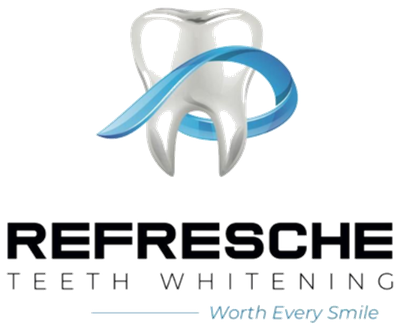
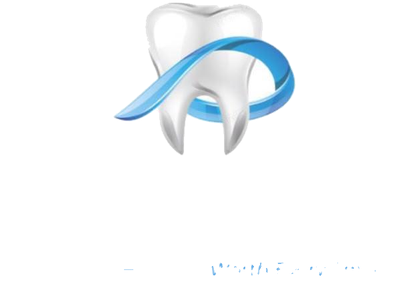
Shaye Best Classic 2027 landing page: site files only (mirrors main repo f5a46d5)

diff --git a/js/data.js b/js/data.js
@@ -121,7 +121,7 @@ export const SPONSORS = [
   { slug: 'browns',        name: 'Browns The Diamond Store',  tier: 'partner', confirmed: false },
   { slug: 'my-gym',        name: 'My Gym',                    tier: 'partner', confirmed: false },
   { slug: 'dermaporium',   name: 'Dermaporium',               tier: 'partner', confirmed: true, url: 'https://dermaporium.co.za' },
-  { slug: 'refresche',     name: 'Refresche Teeth Whitening', tier: 'partner', confirmed: true },
+  { slug: 'refresche',     name: 'Refresche Teeth Whitening', tier: 'partner', confirmed: true, v: 2 },  // v: new art under a year-long cache
   { slug: 'engen-rietvlei',name: 'Engen Rietvlei',            tier: 'partner', confirmed: true },
   { slug: 'planet-nails',  name: 'Planet Nails Distribution', tier: 'partner', confirmed: true, url: 'https://www.planetnails.co.za' },
   { slug: 'sorbet-hairbar',name: 'Sorbet hairbar',            tier: 'partner', confirmed: false },
@@ -174,7 +174,9 @@ export const SHAYE = {
 // prices/dates interpolate from the facts above and update when they flip.
 export const FAQ = [
   { q: 'How do I enter?',
-    a: () => 'Send a WhatsApp to 082 406 2121 to join the athlete group. Shaye sends the registration form there. Entries are not taken on this page.' },
+    a: () => 'Send a WhatsApp to 082 406 2121 to join the athlete group. The registration form is posted there two weeks before the show. Entries are not taken on this page.' },
+  { q: 'Where do I get the athlete registration form?',   // wording approved by Troy, 27 Nov
+    a: f => `It is posted on the athlete WhatsApp group two weeks before the show. Download it, print it, fill it in and bring it with you to athlete registration on ${f(EVENT.regDate)}, ${f(EVENT.regTime)}. To join the group, send a WhatsApp to 082 406 2121.` },
   { q: 'Can I register on show day?',
     a: f => (isTbc(EVENT.regDate) || isTbc(EVENT.regTime)
       ? 'No. The registration date and time are to be confirmed. There is no late registration on show day under any circumstances.'

diff --git a/js/render.js b/js/render.js
@@ -165,8 +165,9 @@ export function renderSponsors() {
         <img src="assets/sponsors/${title.slug}.png" alt="${title.name}" loading="lazy"></a>${badge(title)}</div>` : '';
 
   const tile = (s, tab) => {
-    const imgs = `<img class="white"  src="assets/sponsors/${s.slug}.png" alt="${s.name}" loading="lazy">
-         <img class="colour" src="assets/sponsors/${s.slug}-colour.png" alt="" aria-hidden="true" loading="lazy">${badge(s)}`;
+    const v = s.v ? `?v=${s.v}` : '';
+    const imgs = `<img class="white"  src="assets/sponsors/${s.slug}.png${v}" alt="${s.name}" loading="lazy">
+         <img class="colour" src="assets/sponsors/${s.slug}-colour.png${v}" alt="" aria-hidden="true" loading="lazy">${badge(s)}`;
     return s.url
       ? `<a class="sp${flag(s)}" href="${s.url}" target="_blank" rel="noopener" tabindex="${tab}">${imgs}</a>`
       : `<div class="sp${flag(s)}">${imgs}</div>`;   // not a link: nothing to focus

diff --git a/index.html b/index.html
@@ -150,7 +150,15 @@
      "name": "How do I enter?",
      "acceptedAnswer": {
       "@type": "Answer",
-      "text": "Send a WhatsApp to 082 406 2121 to join the athlete group. Shaye sends the registration form there. Entries are not taken on this page."
+      "text": "Send a WhatsApp to 082 406 2121 to join the athlete group. The registration form is posted there two weeks before the show. Entries are not taken on this page."
+     }
+    },
+    {
+     "@type": "Question",
+     "name": "Where do I get the athlete registration form?",
+     "acceptedAnswer": {
+      "@type": "Answer",
+      "text": "It is posted on the athlete WhatsApp group two weeks before the show. Download it, print it, fill it in and bring it with you to athlete registration on Friday 20 August, 15h00 – 20h00. To join the group, send a WhatsApp to 082 406 2121."
      }
     },
     {

diff --git a/css/style.css b/css/style.css
@@ -259,6 +259,7 @@ html.reduced .fuse-spark{display:none}
 .sp{background:var(--void);min-height:150px;display:grid;place-items:center;padding:1.5rem;position:relative}
 .sp-track .sp{flex:0 0 190px;margin-right:1px}
 .sp img{max-height:64px;width:auto;transition:opacity .3s}
+.sp img[src*="/refresche"]{max-height:96px}      /* near-square stacked logo: 64px made the name unreadable */
 .sp .colour{position:absolute;opacity:0}
 .sp:hover .colour,.sp:focus-within .colour{opacity:1}
 .sp:hover .white,.sp:focus-within .white{opacity:0}
